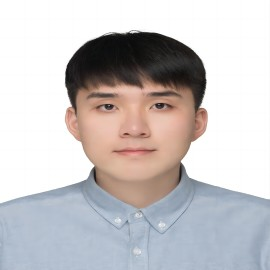
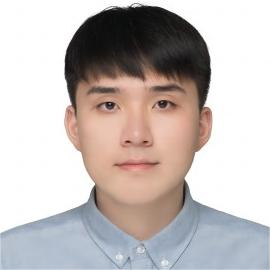
update personal information

diff --git a/author/liu-yunduo/index.html b/author/liu-yunduo/index.html
@@ -637,7 +637,7 @@
 
       <div class="portrait-title">
         <h2>Liu Yunduo</h2>
-        <h3>Nonlinear Optimization</h3>
+        <h3>ML for Optimization</h3>
 
         
         <h3>
@@ -693,34 +693,42 @@
 
     <div class="article-style">
       <h3 id="biography"><strong>Biography</strong></h3>
-<p>I received my B.E. degree in Department of Industrial Engineering in June 2021 from Zhejiang University of Technology. Currently I am a second-year graduate student of College of Mechanical Engineering in Zhejiang University of Technology and a member of <a href="https://emicc-group.github.io" target="_blank" rel="noopener">EMICC Group</a>.</p>
+<p>I received my B.E. degree in Department of Industrial Engineering in June 2021 from Zhejiang University of Technology. Currently I am a third-year graduate student of College of Mechanical Engineering in Zhejiang University of Technology and a member of <a href="https://emicc-group.github.io" target="_blank" rel="noopener">EMICC Group</a>.</p>
 <ul>
 <li>
 <p>Supervisor: Prof. Zhi Pei</p>
 </li>
 <li>
-<p>Email: <a href="mailto:cloudliu2021@163.com">cloudliu2021@163.com</a></p>
+<p>Email: <a href="mailto:liuyunduo@zjut.edu.cn">liuyunduo@zjut.edu.cn</a></p>
 </li>
 </ul>
 <h3 id="educations">Educations</h3>
 <ul>
-<li>M.Eng. in Mechanical Engineering, Zhejiang Unviersity of Technology, 2021 - Present</li>
-<li>B.E. in Industrial Engineering, Zhejiang University of Technology, 2017 - 2021</li>
+  <li>Visiting Research Student (Master) in School of Computing and Information System, Singapore Management University, 2023 - Present</li>
+  <li>M.Eng. in Mechanical Engineering, Zhejiang Unviersity of Technology, 2021 - Present</li>
+  <li>B.E. in Industrial Engineering, Zhejiang University of Technology, 2017 - 2021</li>
 </ul>
 <h3 id="research-interests">Research Interests</h3>
 <ul>
-<li>Operations Research</li>
-<li>Machine Learning</li>
-<li>Deep Reinforcement Learning</li>
+  <li>Operations Research</li>
+  <li>Machine Learning</li>
+  <li>Queueing Theory</li>
+</ul>
+<h3 id="publications">Publications</h3>
+<ul>
+<li>Zhi Pei, Yunduo Liu, Xu Dai et al. <a href="https://www.sciencedirect.com/science/article/pii/S0968090X23003224?dgcid=coauthor" target="_blank" rel="noopener">When drone delivery meets human courier: A co-sourcing perspective</a>. Transportation Research Part C: Emerging Technologies, 2023</li>
+<li>Zhi Pei, Yunduo Liu. Cash-in-Transit Vehicle Routing Problem under Uncertain Travel Time. (In preparation)</li>
 </ul>
 <h3 id="awards--honors">Awards &amp; Honors</h3>
 <ul>
-<li>Zhejiang University of Technology Study Scholarship （2017-2021）</li>
+  <li>First-Class Study Scholarship of Zhejiang University of Technology (2022)</li>
+  <li>Second-class Study Scholarship of Zhejiang University of Technology（2021）</li>
+  <li>Postgraduate Entrance Scholarship of Zhejiang University of Technology (2021)</li>
 </ul>
 <h3 id="correspondence">Correspondence</h3>
 <ul>
 <li>Laboratory: Room C509, Mechanical Engineering Building, Zhejiang University of technology</li>
-<li>Address: Lei Zhang, Zhejiang University of Technology, Pingfeng Campus, 288 Liuhe Rd, Xihu District, Hangzhou 310023, China</li>
+<li>Address: Yunduo Liu, Zhejiang University of Technology, Pingfeng Campus, 288 Liuhe Rd, Xihu District, Hangzhou 310023, China</li>
 </ul>
 
     </div>
